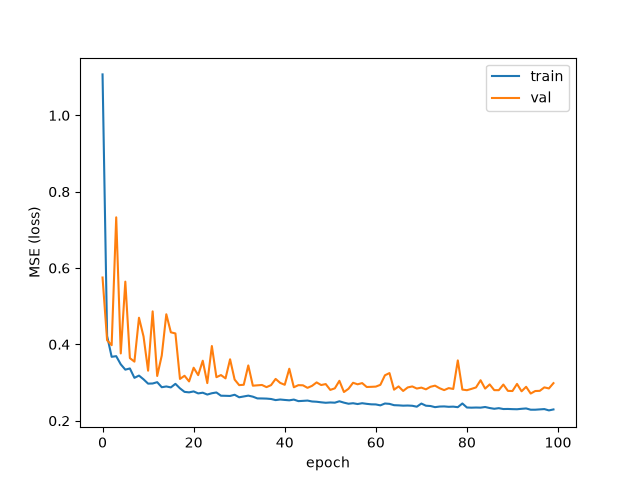
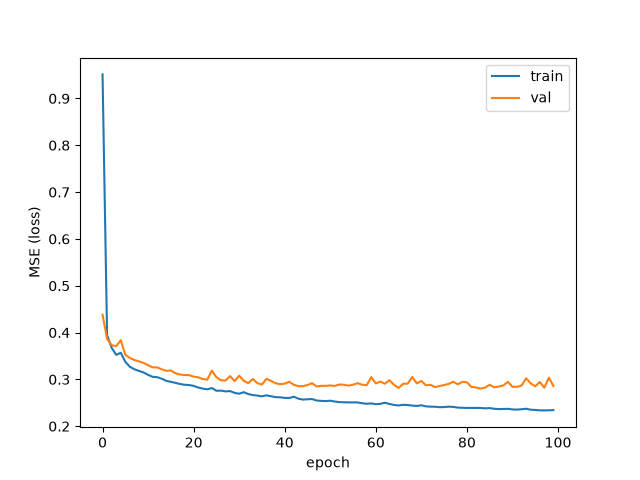
chore: set random seed (42) for reproducible results

diff --git a/phase2_baseline_regression.py b/phase2_baseline_regression.py
@@ -14,6 +14,8 @@ from sklearn.preprocessing import StandardScaler
 from tensorflow import keras
 from tensorflow.keras import layers
 
+keras.utils.set_random_seed(42)
+
 housing = fetch_california_housing()
 X, y = housing.data, housing.target
 X_train_full, X_test, y_train_full, y_test = train_test_split(X, y, test_size=0.2, random_state=42)

diff --git a/phase3_tensorboard_california.py b/phase3_tensorboard_california.py
@@ -12,6 +12,8 @@ from sklearn.preprocessing import StandardScaler
 from tensorflow import keras
 from tensorflow.keras import layers
 
+keras.utils.set_random_seed(42)
+
 housing = fetch_california_housing()
 X, y = housing.data, housing.target
 X_train_full, X_test, y_train_full, y_test = train_test_split(X, y, test_size=0.2, random_state=42)

diff --git a/phase4_pima_baseline.py b/phase4_pima_baseline.py
@@ -12,6 +12,8 @@ from sklearn.preprocessing import StandardScaler
 from tensorflow import keras
 from tensorflow.keras import layers
 
+keras.utils.set_random_seed(42)
+
 pima_url = "https://raw.githubusercontent.com/jbrownlee/Datasets/master/pima-indians-diabetes.data.csv"
 cols = ['Pregnancies', 'Glucose', 'BloodPressure', 'SkinThickness',
         'Insulin', 'BMI', 'DiabetesPedigreeFunction', 'Age', 'Outcome']

diff --git a/phase5_pima_regularisation.py b/phase5_pima_regularisation.py
@@ -14,6 +14,8 @@ from sklearn.preprocessing import StandardScaler
 from tensorflow import keras
 from tensorflow.keras import layers, regularizers
 
+keras.utils.set_random_seed(42)
+
 pima_url = "https://raw.githubusercontent.com/jbrownlee/Datasets/master/pima-indians-diabetes.data.csv"
 cols = ['Pregnancies', 'Glucose', 'BloodPressure', 'SkinThickness',
         'Insulin', 'BMI', 'DiabetesPedigreeFunction', 'Age', 'Outcome']

diff --git a/phase6_pima_kerastuner.py b/phase6_pima_kerastuner.py
@@ -13,6 +13,8 @@ from sklearn.preprocessing import StandardScaler
 from tensorflow import keras
 from tensorflow.keras import layers
 
+keras.utils.set_random_seed(42)
+
 pima_url = "https://raw.githubusercontent.com/jbrownlee/Datasets/master/pima-indians-diabetes.data.csv"
 cols = ['Pregnancies', 'Glucose', 'BloodPressure', 'SkinThickness',
         'Insulin', 'BMI', 'DiabetesPedigreeFunction', 'Age', 'Outcome']

diff --git a/phase7_wine_baseline.py b/phase7_wine_baseline.py
@@ -17,6 +17,8 @@ from sklearn.metrics import confusion_matrix
 from tensorflow import keras
 from tensorflow.keras import layers
 
+keras.utils.set_random_seed(42)
+
 wine_url = "https://archive.ics.uci.edu/ml/machine-learning-databases/wine-quality/winequality-red.csv"
 df_wine = pd.read_csv(wine_url, sep=';')
 

diff --git a/phase8_wine_batchnorm.py b/phase8_wine_batchnorm.py
@@ -13,6 +13,8 @@ from sklearn.preprocessing import StandardScaler
 from tensorflow import keras
 from tensorflow.keras import layers, regularizers
 
+keras.utils.set_random_seed(42)
+
 wine_url = "https://archive.ics.uci.edu/ml/machine-learning-databases/wine-quality/winequality-red.csv"
 df_wine = pd.read_csv(wine_url, sep=';')
 df_wine['quality_3class'] = df_wine['quality'].apply(lambda q: 0 if q <= 4 else (1 if q <= 6 else 2))

diff --git a/phase9_breast_cancer.py b/phase9_breast_cancer.py
@@ -13,6 +13,8 @@ from sklearn.metrics import roc_auc_score
 from tensorflow import keras
 from tensorflow.keras import layers, regularizers
 
+keras.utils.set_random_seed(42)
+
 data = load_breast_cancer()
 X, y = data.data, data.target
 print("shape :", X.shape)

diff --git a/README.md b/README.md
@@ -25,7 +25,7 @@ Puis ouvrir http://localhost:6006
 
 ### California Housing (régression)
 - [x] Phase 1 : pipeline chargement + normalisation (split avant scale, pas de fuite)
-- [x] Phase 2 : baseline PMC régression (MAE test ≈ 0.35)
+- [x] Phase 2 : baseline PMC régression (MAE test ≈ 0.38)
 - [x] Phase 3 : diagnostic TensorBoard (normalisé vs brut)
 
 ### Pima Diabetes (classification binaire)
@@ -44,14 +44,14 @@ Puis ouvrir http://localhost:6006
 
 | Dataset | Tâche | val_accuracy / val_MAE | val_loss finale | Epochs (best) | Meilleur lr | Meilleure taille couche | Régularisation |
 |---|---|---|---|---|---|---|---|
-| California Housing | Régression | MAE 0.36 | 0.28 (MSE) | 100 | 0.001 (défaut) | 64→32 | Aucune (baseline) |
-| Pima Diabetes | Classification binaire | acc 0.76 (tuné ~0.80) | 0.50 (BCE) | 87 | 0.0005 (tuner) | 32→48 (tuner) | L2 + Early Stopping |
-| Wine Quality | Multiclassification | acc 0.83 | 0.50 (CE) | 47 | 0.001 (défaut) | 64→32 + BN | L2 + BatchNorm |
+| California Housing | Régression | MAE 0.38 | 0.29 (MSE) | 100 | 0.001 (défaut) | 64→32 | Aucune (baseline) |
+| Pima Diabetes | Classification binaire | acc 0.77 (tuné ~0.80) | 0.52 (BCE) | 122 | 0.0005 (tuner) | 32→48 (tuner) | L2 + Early Stopping |
+| Wine Quality | Multiclassification | acc 0.83 | 0.52 (CE) | 37 | 0.001 (défaut) | 64→32 + BN | L2 + BatchNorm |
 
-Bonus (dataset perso, Partie B) : **Breast Cancer**, binaire, 30 features → test accuracy **0.974** / AUC **0.993**.
+Bonus (dataset perso, Partie B) : **Breast Cancer**, binaire, 30 features → test accuracy **0.965** / AUC **0.993**.
 
 > **Lire les `val_loss`** : une loss de classification se compare à la loss d'un modèle *aléatoire* (`ln(2)=0.69` en binaire, `ln(3)=1.10` à 3 classes), pas à 0. Une loss ~0.50 avec ~80 % d'accuracy est donc saine : le modèle bat nettement le hasard sans être sur-confiant. Les `val_loss` ne se comparent pas entre lignes (MSE en régression, cross-entropy en classif).
-> Chiffres pris à la **même epoch** (le meilleur modèle, `argmin val_loss`) pour que loss et accuracy décrivent le même modèle. Runs sans seed fixe → ±1-2 points d'un run à l'autre.
+> Chiffres pris à la **même epoch** (le meilleur modèle, `argmin val_loss`) pour que loss et accuracy décrivent le même modèle. **Seed fixé** (`keras.utils.set_random_seed(42)` en tête de chaque script) → résultats reproductibles d'un run à l'autre.
 
 ## Ce que le tableau révèle
 
@@ -60,15 +60,15 @@ Bonus (dataset perso, Partie B) : **Breast Cancer**, binaire, 30 features → te
 - (b) En profite le moins : **California Housing** — 20 640 exemples, très dur à overfitter (laissé en baseline sans régul).
 - (c) Facteur qui explique le plus l'écart : **la taille du dataset**.
 
-**Confrontation :** confirmé. California tient tout seul ; Pima overfitte dès l'epoch 25 sans frein. Nuance mesurée : sur Pima la régularisation apporte de la **robustesse** (overfitting retardé 4×), pas un meilleur score — le plafond ~0.77 est fixé par les données (petit, bruité, zéros-NaN), pas par le modèle. Le tuner (0.80) fait un peu mieux avec `tanh` + `lr=0.0005`.
+**Confrontation :** confirmé. California tient tout seul ; Pima overfitte dès l'epoch 23 sans frein (early stopping), les configs régularisées tiennent jusqu'à ~93-120. Nuance mesurée : sur Pima la régularisation apporte de la **robustesse** (overfitting retardé ~4×), pas un meilleur score — le plafond ~0.77 est fixé par les données (petit, bruité, zéros-NaN), pas par le modèle. Le tuner (~0.80) fait un peu mieux avec `tanh` + `lr=0.0005`.
 
 **Les 3 questions de réflexion :**
 1. **Hyperparamètre le plus impactant** : le **learning rate et l'activation** (le tuner sort `tanh` dans 4 des 5 meilleurs trials, avec un `lr` bas). La taille des couches compte moins (meilleur trial : `units_1=32`). Cohérent avec le random search : quelques dimensions dominent (Bergstra & Bengio).
-2. **Plus grand écart train/val** : **Pima**. Plus petit dataset + features bruitées (zéros-NaN) → mémorisation rapide (overfit dès l'epoch 25 en baseline).
-3. **Early stopping le plus précoce** : à distinguer selon la cause. Le baseline Pima s'arrête tôt (epoch 25) parce qu'il **overfitte** vite (mauvais signe) ; Wine + BatchNorm s'arrête tôt (~42-75) parce qu'il **converge** vite (bon signe, BN accélère). Deux arrêts précoces, deux causes opposées.
+2. **Plus grand écart train/val** : **Pima**. Plus petit dataset + features bruitées (zéros-NaN) → mémorisation rapide (overfit dès l'epoch 23 en baseline).
+3. **Early stopping le plus précoce** : à distinguer selon la cause. Le baseline Pima s'arrête tôt (epoch 23) parce qu'il **overfitte** vite (mauvais signe) ; Wine + BatchNorm s'arrête tôt (~38-48) parce qu'il **converge** vite (bon signe, BN accélère). Deux arrêts précoces, deux causes opposées.
 
 ## Post-mortem
 
-1. **Ce qui m'a surpris** : que la régularisation ne fasse pas monter le score sur Pima (plafond 0.77) — j'attendais un gain, alors qu'elle apporte de la robustesse, pas de la précision. Et que 0.85 de val_accuracy sur Wine cache un modèle **aveugle à la classe « low »** (révélé par la matrice de confusion).
-2. **Ce que je referais autrement** : fixer un seed partout (les comparaisons de configs varient d'un run à l'autre, dur de conclure), et traiter les zéros-NaN de Pima (imputation médiane) plutôt que les laisser.
+1. **Ce qui m'a surpris** : que la régularisation ne fasse pas monter le score sur Pima (plafond 0.77) — j'attendais un gain, alors qu'elle apporte de la robustesse, pas de la précision. Et que 0.85 de val_accuracy sur Wine cache un modèle **quasi-aveugle à la classe « low »** (1/13 détecté, révélé par la matrice de confusion).
+2. **Ce que je referais autrement** : fixer le seed dès le départ (`keras.utils.set_random_seed(42)`) — je l'ai ajouté après coup, ce qui m'a obligé à relancer tous les runs pour des chiffres reproductibles — et traiter les zéros-NaN de Pima (imputation médiane) plutôt que les laisser.
 3. **Ce que je n'ai pas eu le temps d'explorer** : la régression ordinale pour Wine (qui garderait l'ordre low<medium<high), keras-tuner sur Wine et Breast Cancer, et `class_weight` pour forcer la détection de la classe minoritaire « low ».